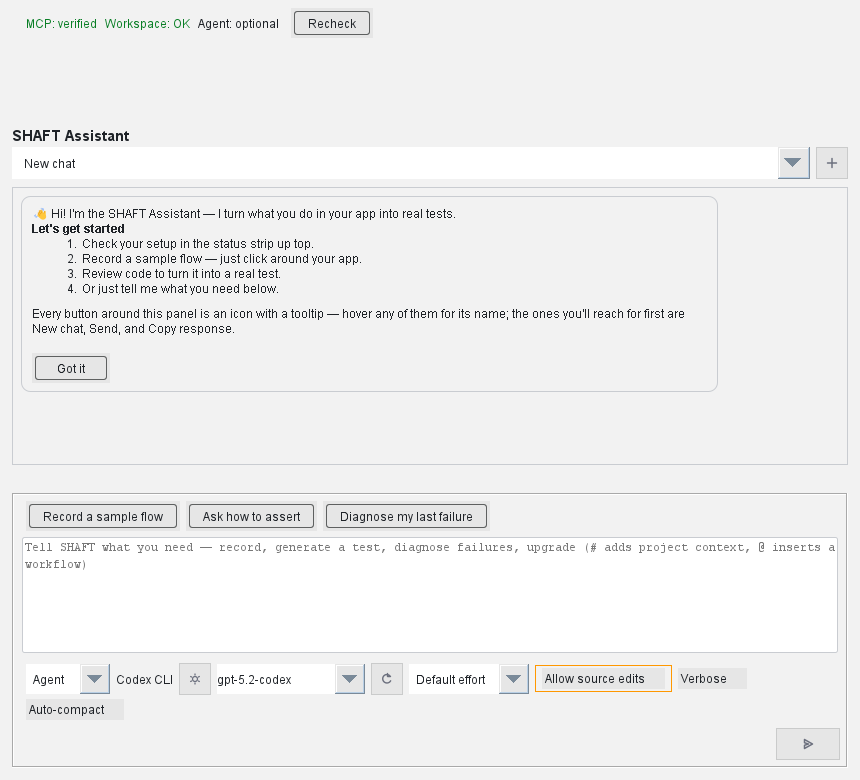
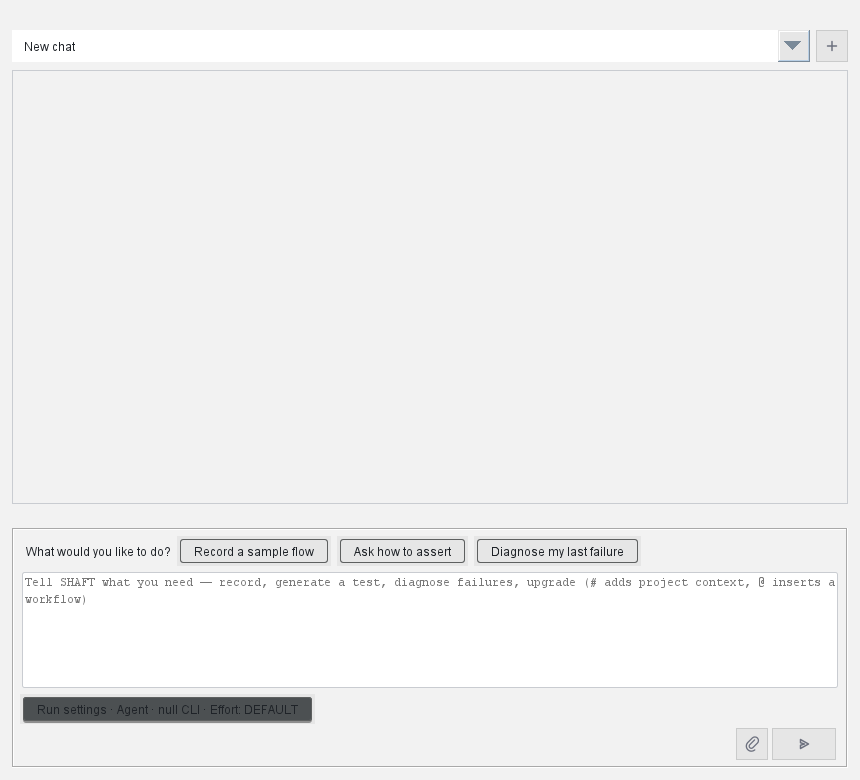
docs(intellij): refresh Assistant screenshots for unselected-agent chrome

diff --git a/docs/agentic/intellij.md b/docs/agentic/intellij.md
@@ -232,7 +232,10 @@ my last failure) plus a dismissible first-run coach: "Finish setup → Record a
 sample → Review code" with a **Got it** button that hides it permanently. The
 composer placeholder invites a plain-language request (record, generate a test,
 diagnose failures, upgrade) and wraps to the panel width so it is always fully
-readable. The Assistant opens in **Agent** mode with **Allow source edits**
+readable. **Run settings** stays collapsed as a chip until you expand it to
+change the agent, effort, **Allow source edits**, or Verbose. Until setup
+selects a route, that chip does not name Codex and does not invent a default
+agent. The Assistant still opens in **Agent** mode with **Allow source edits**
 checked, so a first request like "generate a test" can actually land code in
 the project; uncheck it for suggestion-only runs. Recording requests such as
 "Record my browser actions on https://..." always run on the plugin's own
@@ -606,9 +609,9 @@ findings (flaky steps, unsupported events, required inputs, fallback
 locators) also surface as file-level IDE annotations directly on the
 generated class.
 
-![SHAFT IntelliJ Assistant chat composer showing a generated WikipediaSearchTest class under Confirmed target: https://en.wikipedia.org/wiki/Main_Page, with copy, download, delete, and rerun buttons above the prompt box](/img/agentic/intellij-plugin-assistant.png)
+![SHAFT IntelliJ Assistant chat composer showing a generated WikipediaSearchTest class under Confirmed target: https://en.wikipedia.org/wiki/Main_Page, with copy, download, delete, and rerun buttons above the prompt box, and a compact Run settings chip before an agent route is selected](/img/agentic/intellij-plugin-assistant.png)
 
-![SHAFT IntelliJ Assistant empty composer](/img/agentic/intellij-plugin-assistant-empty.png)
+![SHAFT IntelliJ Assistant empty composer with Record a sample flow, Ask how to assert, and Diagnose my last failure chips, a compact Run settings chip, and an attach control](/img/agentic/intellij-plugin-assistant-empty.png)
 
 The Assistant routes plain-language intent to the right MCP tools:
 
